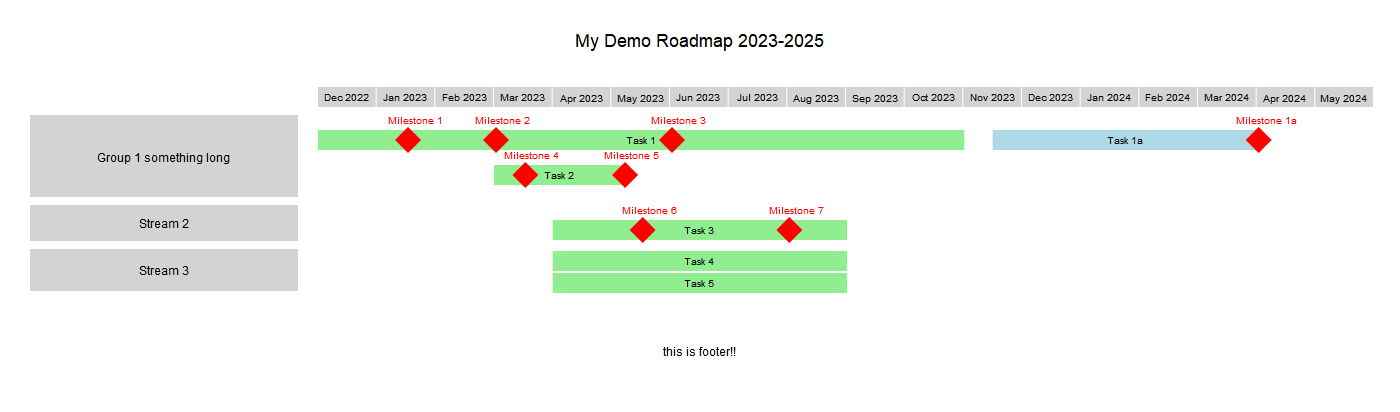
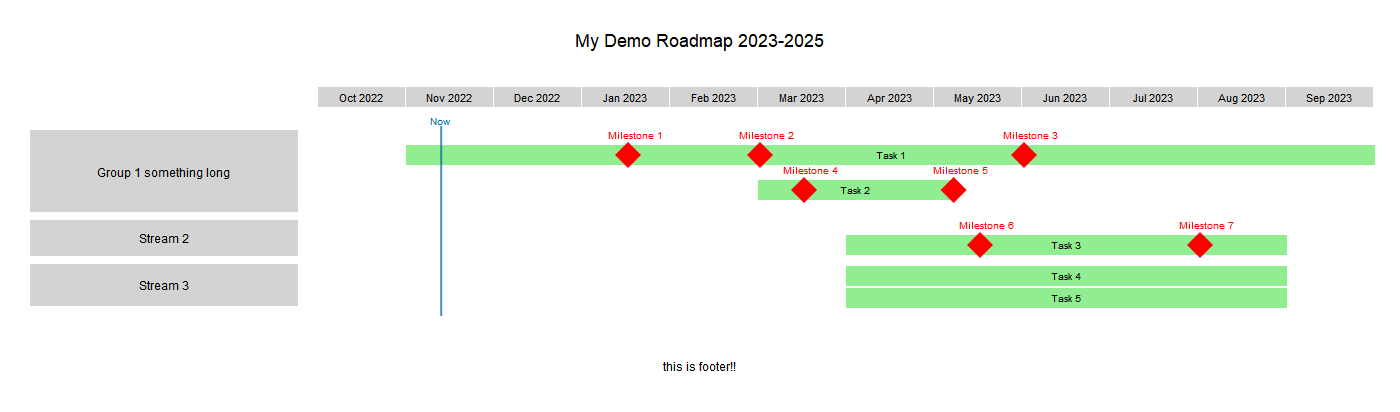
Full working beta1 version

diff --git a/generator/roadmap.py b/generator/roadmap.py
@@ -31,16 +31,19 @@ from generator.footer import Footer
 from generator.timelinemode import TimelineMode
 from generator.timeline import Timeline
 from generator.group import Group
+from generator.marker import Marker
 
 
 @dataclass()
 class Roadmap:
     width: int = field(default=1200)
     height: int = field(default=600)
+    show_current_date_marker: bool = field(default=False)
     title: Title = field(default=None, init=False)
     timeline: Timeline = field(default=None, init=False)
     # groups: list[Group] = field(default_factory=list, init=False)
     footer: Footer = field(default=None, init=False)
+    marker: Marker = field(default=None, init=False)
 
     def __post_init__(self):
         self.__painter = Painter(self.width, self.height, "test.png")
@@ -48,6 +51,25 @@ class Roadmap:
         self.groups = []
         self.__last_y_pos = 0
         self.__mode = TimelineMode.MONTHLY
+
+    def set_marker(
+        self,
+        label_text_font="Arial",
+        label_text_colour: str = "Black",
+        label_text_size: int = 10,
+        line_colour: str = "Black",
+        line_width: int = 2,
+        line_style: str = "dashed",
+    ):
+        self.marker = Marker(
+            font=label_text_font,
+            font_size=label_text_size,
+            font_colour=label_text_colour,
+            line_colour=line_colour,
+            line_width=line_width,
+            line_style=line_style,
+        )
+        self.show_current_date_marker = True
 
     def set_title(
         self,
@@ -70,6 +92,10 @@ class Roadmap:
         font_size: int = 18,
         font_colour: str = "Black",
     ):
+        # set marker position first since we know the height of groups
+        if self.show_current_date_marker == True:
+            self.marker.set_line_draw_position(self.__painter)
+
         self.footer = Footer(
             text=text, font=font, font_size=font_size, font_colour=font_colour
         )
@@ -99,6 +125,8 @@ class Roadmap:
             fill_colour=fill_colour,
         )
         self.timeline.set_draw_position(self.__painter)
+        if self.show_current_date_marker == True:
+            self.marker.set_label_draw_position(self.__painter, self.timeline)
         return None
 
     @contextmanager
@@ -131,12 +159,15 @@ class Roadmap:
         self.timeline.draw(self.__painter)
         for group in self.groups:
             group.draw(self.__painter)
+        self.marker.draw(self.__painter)
         self.footer.draw(self.__painter)
 
     def save(self):
         self.__painter.save_surface()
 
     def print_roadmap(self, print_area: str = "all"):
+        dash = "─"
+        space = " "
         if print_area == "all" or print_area == "title":
             print(f"Title={self.title.text}")
 
@@ -144,7 +175,7 @@ class Roadmap:
             print("Timeline:")
             for timeline_item in self.timeline.timeline_items:
                 print(
-                    f"       text={timeline_item.text}, value={timeline_item.value}, "
+                    f"└{dash*8}{timeline_item.text}, value={timeline_item.value}, "
                     f"box_x={round(timeline_item.box_x,2)}, box_y={timeline_item.box_y}, "
                     f"box_w={round(timeline_item.box_width,2)}, box_h={timeline_item.box_height}, "
                     f"text_x={round(timeline_item.text_x,2)}, text_y={timeline_item.text_y}"
@@ -158,25 +189,25 @@ class Roadmap:
                 )
                 for task in group.tasks:
                     print(
-                        f"└────────{task.text}, start={task.start}, end={task.end}, "
+                        f"└{dash*8}{task.text}, start={task.start}, end={task.end}, "
                         f"x={round(task.box_x, 2)}, y={task.box_y}, w={round(task.box_width, 2)}, "
                         f"h={task.box_height}"
                     )
                     for milestone in task.milestones:
                         print(
-                            f"         ╟░░░░{milestone.text}, date={milestone.date}, x={round(milestone.diamond_x, 2)}, "
+                            f"{space*9}├{dash*4}{milestone.text}, date={milestone.date}, x={round(milestone.diamond_x, 2)}, "
                             f"y={milestone.diamond_y}, w={milestone.diamond_width}, h={milestone.diamond_height}, "
                             f"font_colour={milestone.font_colour}, fill_colour={milestone.fill_colour}"
                         )
                     for parellel_task in task.tasks:
                         print(
-                            f"         └────Parellel Task: {parellel_task.text}, start={parellel_task.start}, "
+                            f"{space*9}└{dash*4}Parellel Task: {parellel_task.text}, start={parellel_task.start}, "
                             f"end={parellel_task.end}, x={round(parellel_task.box_x,2)}, y={round(parellel_task.box_y, 2)}, "
                             f"w={round(parellel_task.box_width, 2)}, h={round(parellel_task.box_height,2)}"
                         )
                         for parellel_task_milestone in parellel_task.milestones:
                             print(
-                                f"              ╟░░░░{parellel_task_milestone.text}, "
+                                f"{space*14}├{dash*4}{parellel_task_milestone.text}, "
                                 f"date={parellel_task_milestone.date}, x={round(parellel_task_milestone.diamond_x, 2)}, "
                                 f"y={round(parellel_task_milestone.diamond_y, 2)}, w={parellel_task_milestone.diamond_width}, "
                                 f"h={parellel_task_milestone.diamond_height}"

diff --git a/generator/marker.py b/generator/marker.py
@@ -1,0 +1,98 @@
+# MIT License
+
+# Copyright (c) 2022 Cheng Soon Goh
+
+# Permission is hereby granted, free of charge, to any person obtaining a copy
+# of this software and associated documentation files (the "Software"), to deal
+# in the Software without restriction, including without limitation the rights
+# to use, copy, modify, merge, publish, distribute, sublicense, and/or sell
+# copies of the Software, and to permit persons to whom the Software is
+# furnished to do so, subject to the following conditions:
+
+# The above copyright notice and this permission notice shall be included in all
+# copies or substantial portions of the Software.
+
+# THE SOFTWARE IS PROVIDED "AS IS", WITHOUT WARRANTY OF ANY KIND, EXPRESS OR
+# IMPLIED, INCLUDING BUT NOT LIMITED TO THE WARRANTIES OF MERCHANTABILITY,
+# FITNESS FOR A PARTICULAR PURPOSE AND NONINFRINGEMENT. IN NO EVENT SHALL THE
+# AUTHORS OR COPYRIGHT HOLDERS BE LIABLE FOR ANY CLAIM, DAMAGES OR OTHER
+# LIABILITY, WHETHER IN AN ACTION OF CONTRACT, TORT OR OTHERWISE, ARISING FROM,
+# OUT OF OR IN CONNECTION WITH THE SOFTWARE OR THE USE OR OTHER DEALINGS IN THE
+# SOFTWARE.
+from datetime import datetime
+from dataclasses import dataclass, field
+from generator.painter import Painter
+from generator.timeline import Timeline
+from generator.group import Group
+
+
+@dataclass(kw_only=True)
+class Marker:
+
+    font: str = field(default="Arial")
+    font_size: int = field(default=12)
+    font_colour: str = field(default="#004d80")
+    # fill_colour: str = field(default="#007acc")
+    line_colour: str = field(default="#007acc")
+    line_width: int = field(default=1)
+    line_style: str = field(default="dashed")
+
+    def __post_init__(self):
+        self.text = "Now"
+        self.label_x = 0
+        self.label_y = 0
+        self.label_width = 0
+        self.label_height = 0
+        self.line_from_x = 0
+        self.line_from_y = 0
+        self.line_to_x = 0
+        self.line_to_y = 0
+
+    def set_label_draw_position(self, painter: Painter, timeline: Timeline):
+        current_date = datetime.today()
+        current_date = current_date.replace(hour=0, minute=0, second=0, microsecond=0)
+        label_pos_percentage = 0
+        for timeline_item in timeline.timeline_items:
+            if timeline_item.start <= current_date <= timeline_item.end:
+                # calc label position
+                (
+                    correct_timeline,
+                    label_pos_percentage,
+                ) = timeline_item.get_timeline_pos_percentage(
+                    timeline.mode, current_date
+                )
+                if correct_timeline == True:
+                    break
+
+        self.line_from_x = timeline_item.box_x + (
+            timeline_item.box_width * label_pos_percentage
+        )
+        self.label_y = painter.last_drawn_y_pos + 8
+        painter.set_font(self.font, self.font_size, self.font_colour)
+        self.label_width, self.label_height = painter.get_text_dimension(self.text)
+        self.label_x = self.line_from_x - (self.label_width / 2)
+        self.line_from_y = self.label_y + self.label_height + 4
+        painter.last_drawn_y_pos = self.label_y + self.label_height
+
+    def set_line_draw_position(self, painter: Painter):
+        self.line_to_x = self.line_from_x
+        self.line_to_y = painter.last_drawn_y_pos + 10
+        # print(
+        #     f"--{self.line_from_x=}, {self.line_from_y=}, {self.line_to_x=}, {self.line_to_y=}"
+        # )
+
+    def draw(self, painter):
+        painter.set_font(self.font, self.font_size, self.font_colour)
+        painter.set_colour(self.font_colour)
+        painter.draw_text(self.label_x, self.label_y + 10, self.text)
+        painter.set_colour_alpha(self.line_colour)
+        painter.set_line_width(self.line_width)
+        painter.set_line_style(self.line_style)
+
+        painter.draw_line(
+            self.line_from_x, self.line_from_y, self.line_to_x, self.line_to_y
+        )
+        # painter.draw_diamond(
+        #     self.diamond_x, self.diamond_y, self.diamond_width, self.diamond_height
+        # )
+        # painter.draw_text(self.text_x, self.text_y, self.text)

diff --git a/generator/timeline.py b/generator/timeline.py
@@ -160,13 +160,22 @@ class Timeline:
             timeline_period = self.__get_timeline_item_value(index)
             this_year = timeline_period[0:4]
             this_week = timeline_period[4:]
-            print(f"{timeline_period=}, this_year={this_year} this_week={this_week}")
-            timeline_start_period = date.fromisocalendar(
-                int(this_year), int(this_week), 1
+            # print(f"{timeline_period=}, this_year={this_year} this_week={this_week}")
+            timeline_start_period = datetime.combine(
+                date.fromisocalendar(int(this_year), int(this_week), 1),
+                datetime.min.time(),
             )
-            timeline_end_period = date.fromisocalendar(
-                int(this_year), int(this_week), 7
+            timeline_start_period = timeline_start_period.replace(
+                hour=0, minute=0, second=0, microsecond=0
             )
+            timeline_end_period = datetime.combine(
+                date.fromisocalendar(int(this_year), int(this_week), 7),
+                datetime.min.time(),
+            )
+            timeline_end_period = timeline_end_period.replace(
+                hour=0, minute=0, second=0, microsecond=0
+            )
+            print(f"{timeline_start_period=}, {timeline_end_period=}")
         elif self.mode == TimelineMode.MONTHLY:
             this_month = (self.start + relativedelta(months=+index)).month
             this_year = (self.start + relativedelta(months=+index)).year

diff --git a/demo.py b/demo.py
@@ -2,10 +2,21 @@ from generator.roadmap import Roadmap
 from generator.timelinemode import TimelineMode
 
 my_roadmap = Roadmap(width=1400, height=412)
+my_roadmap.set_marker(
+    label_text_font="Arial",
+    label_text_colour="#006699",
+    label_text_size=10,
+    line_colour="#006699",
+    line_width=2,
+    line_style="solid",
+)
 my_roadmap.set_title("My Demo Roadmap 2023-2025", font_size=18)
-my_roadmap.set_timeline(TimelineMode.MONTHLY, "2022-12-01", 18, font_size=10)
-# my_roadmap.set_timeline(TimelineMode.MONTHLY, "2022-12-01", 12, font_size=11)
-# my_roadmap.set_timeline(TimelineMode.QUARTERLY, "2022-12-15", 6, font_size=11)
+# my_roadmap.set_timeline(TimelineMode.WEEKLY, "2022-11-01", 10, font_size=10)
+my_roadmap.set_timeline(TimelineMode.MONTHLY, "2022-10-01", 12, font_size=11)
+# my_roadmap.set_timeline(TimelineMode.QUARTERLY, "2022-01-01", 6, font_size=11)
+# my_roadmap.set_timeline(TimelineMode.HALF_YEARLY, "2022-01-01", 6, font_size=11)
+# my_roadmap.set_timeline(TimelineMode.YEARLY, "2022-01-01", 3, font_size=11)
+
 
 with my_roadmap.add_group(
     "Group 1 something long", "Arial", 12, "Black", "LightGrey"
@@ -66,4 +77,4 @@ with my_roadmap.add_group("Stream 3", "Arial", 12, "Black", "LightGrey") as grou
 my_roadmap.set_footer("this is footer!!", font_size=12)
 my_roadmap.draw()
 my_roadmap.save()
-my_roadmap.print_roadmap("groups")
+my_roadmap.print_roadmap()

diff --git a/generator/timelineitem.py b/generator/timelineitem.py
@@ -75,10 +75,17 @@ class TimelineItem:
                 date.fromisocalendar(int(this_year), int(this_week), 1),
                 datetime.min.time(),
             )
+            timeline_start_period = timeline_start_period.replace(
+                hour=0, minute=0, second=0, microsecond=0
+            )
             timeline_end_period = datetime.combine(
                 date.fromisocalendar(int(this_year), int(this_week), 7),
                 datetime.min.time(),
             )
+            timeline_end_period = timeline_end_period.replace(
+                hour=0, minute=0, second=0, microsecond=0
+            )
+            # print(f"type {type(timeline_start_period)} = {timeline_start_period}")
 
         if mode == TimelineMode.MONTHLY:
 
@@ -121,6 +128,7 @@ class TimelineItem:
             timeline_start_period = datetime(int(self.value), 1, 1)
             timeline_end_period = datetime(int(self.value), 12, 31)
 
+        # print(f"{type(timeline_start_period)}, {type(timeline_end_period)}")
         return timeline_start_period, timeline_end_period
 
     def get_timeline_pos_percentage(self, mode: TimelineMode, task_or_milestone_date):

diff --git a/generator/painter.py b/generator/painter.py
@@ -70,6 +70,10 @@ class Painter:
         c = Color(colour)
         self.__cr.set_source_rgb(*c.get_rgb())
 
+    def set_colour_alpha(self, colour):
+        c = Color(colour)
+        self.__cr.set_source_rgba(*c.get_rgb(), 0.7)
+
     def set_font(self, font, font_size, font_colour):
         self.__cr.select_font_face(font)
         self.__cr.set_font_size(font_size)
@@ -112,6 +116,23 @@ class Painter:
     def draw_text(self, x, y, text):
         self.__cr.move_to(x, y)
         self.__cr.show_text(text)
+
+    def set_line_width(self, width):
+        self.__cr.set_line_width(width)
+
+    def set_line_style(self, style="solid"):
+        if style == "solid":
+            dash = [10.0, 0]
+        elif style == "dashed":
+            dash = [10.0, 5.0]
+        else:
+            dash = [10.0, 0]
+        self.__cr.set_dash(dash)
+
+    def draw_line(self, x1, y1, x2, y2):
+        self.__cr.move_to(x1, y1)
+        self.__cr.line_to(x2, y2)
+        self.__cr.stroke()
 
     def get_text_dimension(self, text):
         (
